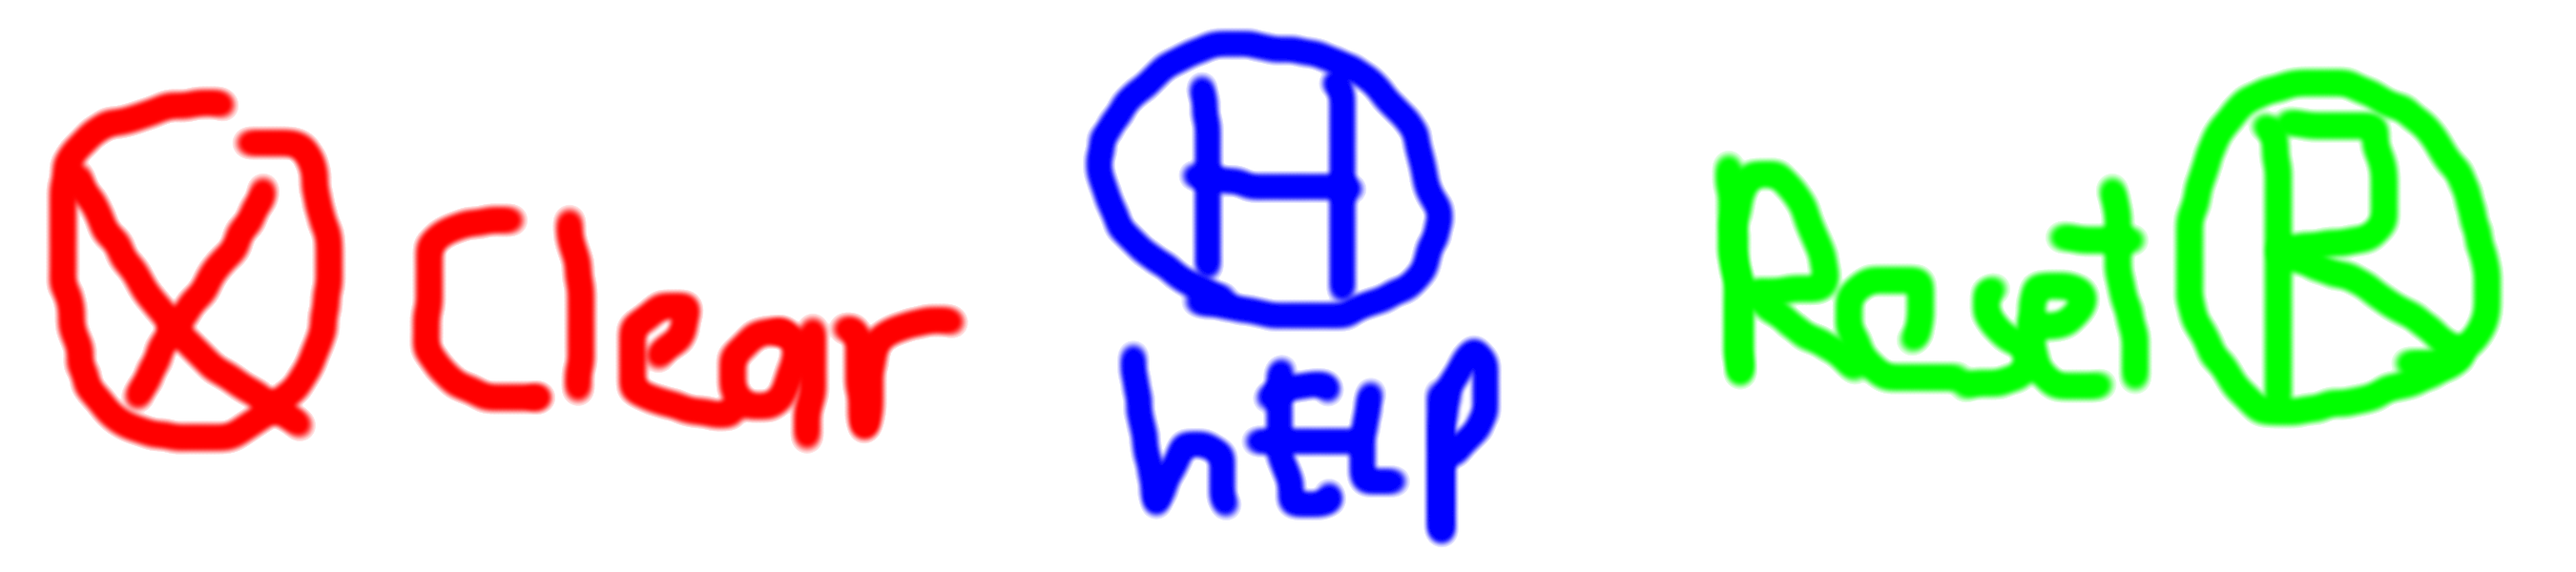
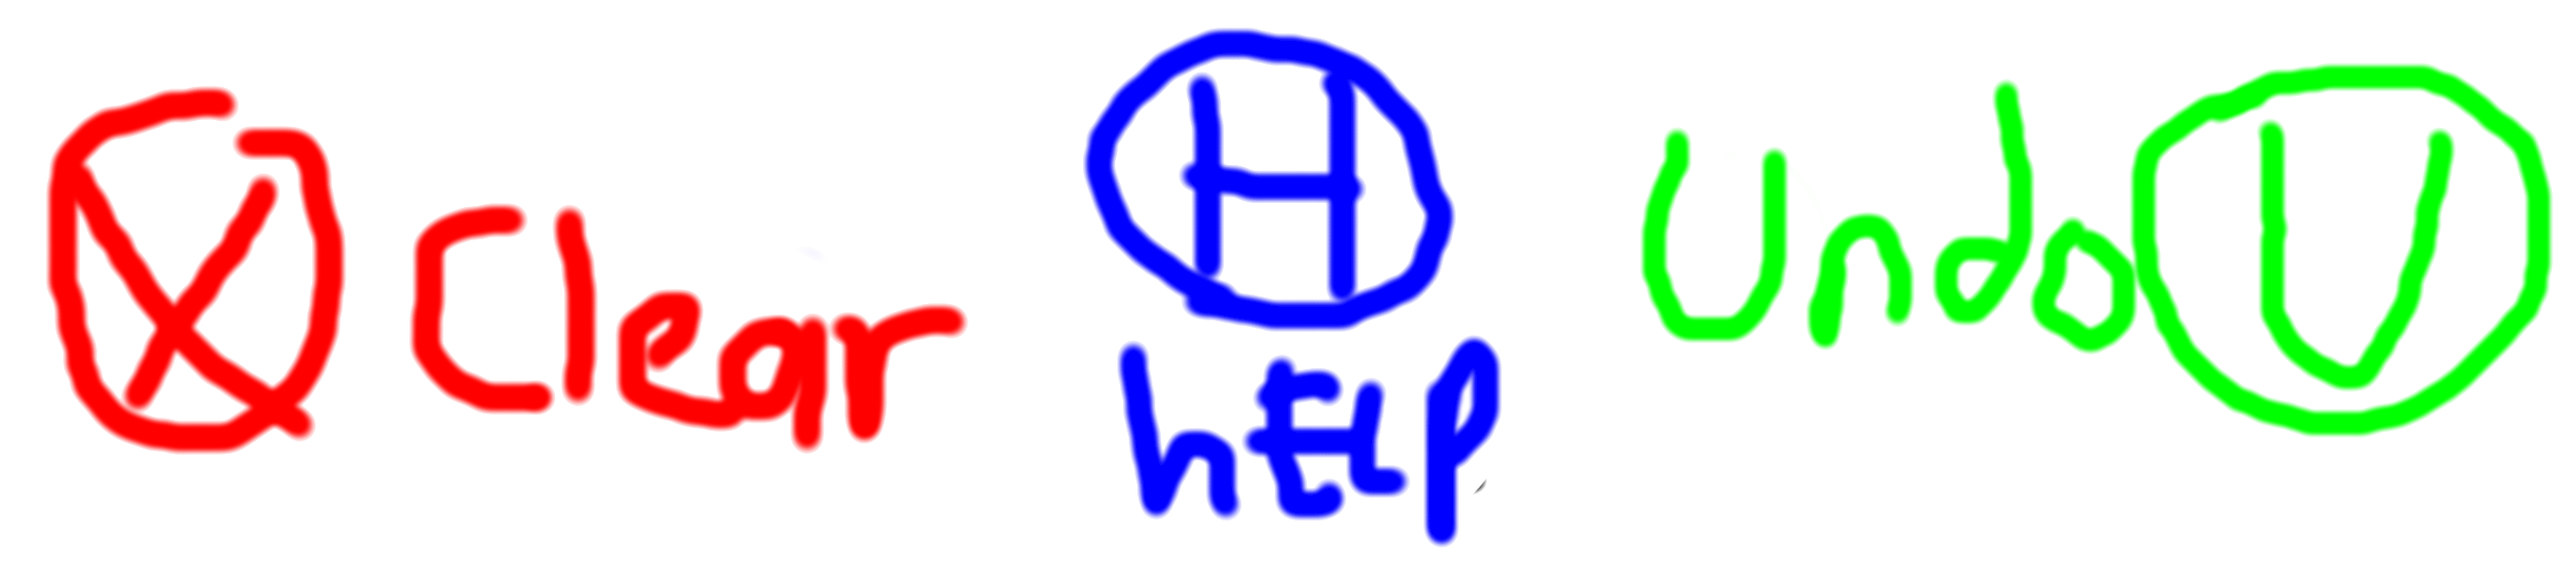
added undo

Changed region(s): [[0.6222, 0.09, 0.9956, 0.78]]

diff --git a/sudoku/gui/web_gui/static/sketch.js b/sudoku/gui/web_gui/static/sketch.js
@@ -77,8 +77,17 @@ function place(row, col, value) {
     }, update_board);
 }
 
-function reset() {
-    httpPost("api/reset", "json", {}, update_board);
+function undo() {
+    httpPost("api/undo", "json", {}, function (response) {
+        if (response === null) {
+            document.getElementById("undo").textContent = `undo: could not undo`;
+            return;
+        }
+        const {row, col, value} = response;
+        current_cell = [row, col]
+        place(row, col, 0);
+        document.getElementById("undo").textContent = `undo: found {row: ${row}, col: ${col}, value ${value}}`;
+    });
 }
 
 function implication() {
@@ -234,8 +243,8 @@ function keyPressed() {
             place(row, col, 0);
         }
     }// x
-    if (keyCode === 82) {
-        reset();
+    if (keyCode === 85) {
+        undo();
     }// r
     if (keyCode == 72) {
         implication();

diff --git a/sudoku/gui/web_gui/static/index.html b/sudoku/gui/web_gui/static/index.html
@@ -11,6 +11,7 @@
             <tr>
                 <td><div id="p5canvas"></div></td> <td><div id="timer"></div></td>
                 <td></td> <td><div id="implication"></div></td>
+                <td></td> <td><div id="undo"></div></td>
             </tr>
         </table>
     </main>

diff --git a/sudoku/board/game.py b/sudoku/board/game.py
@@ -7,7 +7,7 @@ from sudoku.board.solver import solve_all, implication_once
 
 
 
-class ImplicationView:
+class PlacementView:
     row: int
     col: int
     value: int
@@ -34,19 +34,21 @@ class Game:
     current_board: np.ndarray
     solution_board: np.ndarray
     initial_mask: np.ndarray
+    stack: list[tuple[int, int, int]] # row col value
 
     def __init__(self, seed: int):
         self.current_board = 1 + generate(seed)
         self.solution_board = 1 + next(solve_all(self.current_board - 1))
         self.initial_mask = self.current_board.astype(bool)
+        self.stack = []
         print(self.solution_board)
 
-    def implication(self) -> Optional[ImplicationView]:
+    def implication(self) -> Optional[PlacementView]:
         implication = implication_once(self.current_board - 1)
         if implication is None:
             return None
         row, col, value = implication
-        view = ImplicationView()
+        view = PlacementView()
         view.row = row
         view.col = col
         view.value = value + 1
@@ -60,13 +62,24 @@ class Game:
         view.violation_mask = Game._get_violation_mask(self.current_board)
         return view
 
-    def place(self, cell: tuple[int, int], value: int = 0):
-        row, col = cell
+    def place(self, row: int, col: int, value: int = 0):
         if self.initial_mask[row, col] == 0:
             self.current_board[row, col] = value
+            if value != 0:
+                self.stack.append((row, col, value))
 
-    def reset(self):
-        self.current_board[~self.initial_mask] = 0
+    def undo(self) -> Optional[PlacementView]:
+        if len(self.stack) == 0:
+            return None
+        row, col, value = self.stack[-1]
+        self.current_board[row, col] = 0
+        self.stack.pop()
+        view = PlacementView()
+        view.row = row
+        view.col = col
+        view.value = value
+        return view
+
 
     @staticmethod
     def _get_violation_cell(cell: tuple[int, int]) -> Iterator[tuple[int, int]]:

diff --git a/sudoku/gui/web_gui/server.py b/sudoku/gui/web_gui/server.py
@@ -21,7 +21,7 @@ class Game:
         self.app.route("/api/view", methods=["GET"])(self.view)
         self.app.route("/api/new", methods=["POST"])(self.new)
         self.app.route("/api/place", methods=["POST"])(self.place)
-        self.app.route("/api/reset", methods=["POST"])(self.reset)
+        self.app.route("/api/undo", methods=["POST"])(self.undo)
         self.app.route("/api/implication", methods=["GET"])(self.implication)
 
     def serve_static(self, path):
@@ -73,16 +73,19 @@ class Game:
             body = request.json
             row, col = body["row"], body["col"]
             value = body.get("value", 0)
-            self.board_game.place((row, col), value)
+            self.board_game.place(row, col, value)
             return jsonify()
         except Exception:
             return jsonify(), 400
 
-    def reset(self):
+    def undo(self):
         if self.board_game is None:
             return jsonify(), 400
-        self.board_game.reset()
-        return jsonify()
+        undo = self.board_game.undo()
+        if undo is None:
+            return jsonify(None)
+        return jsonify(undo.marshal())
+
 
     def run(self, *args, **kwargs):
         self.app.run(*args, **kwargs)
